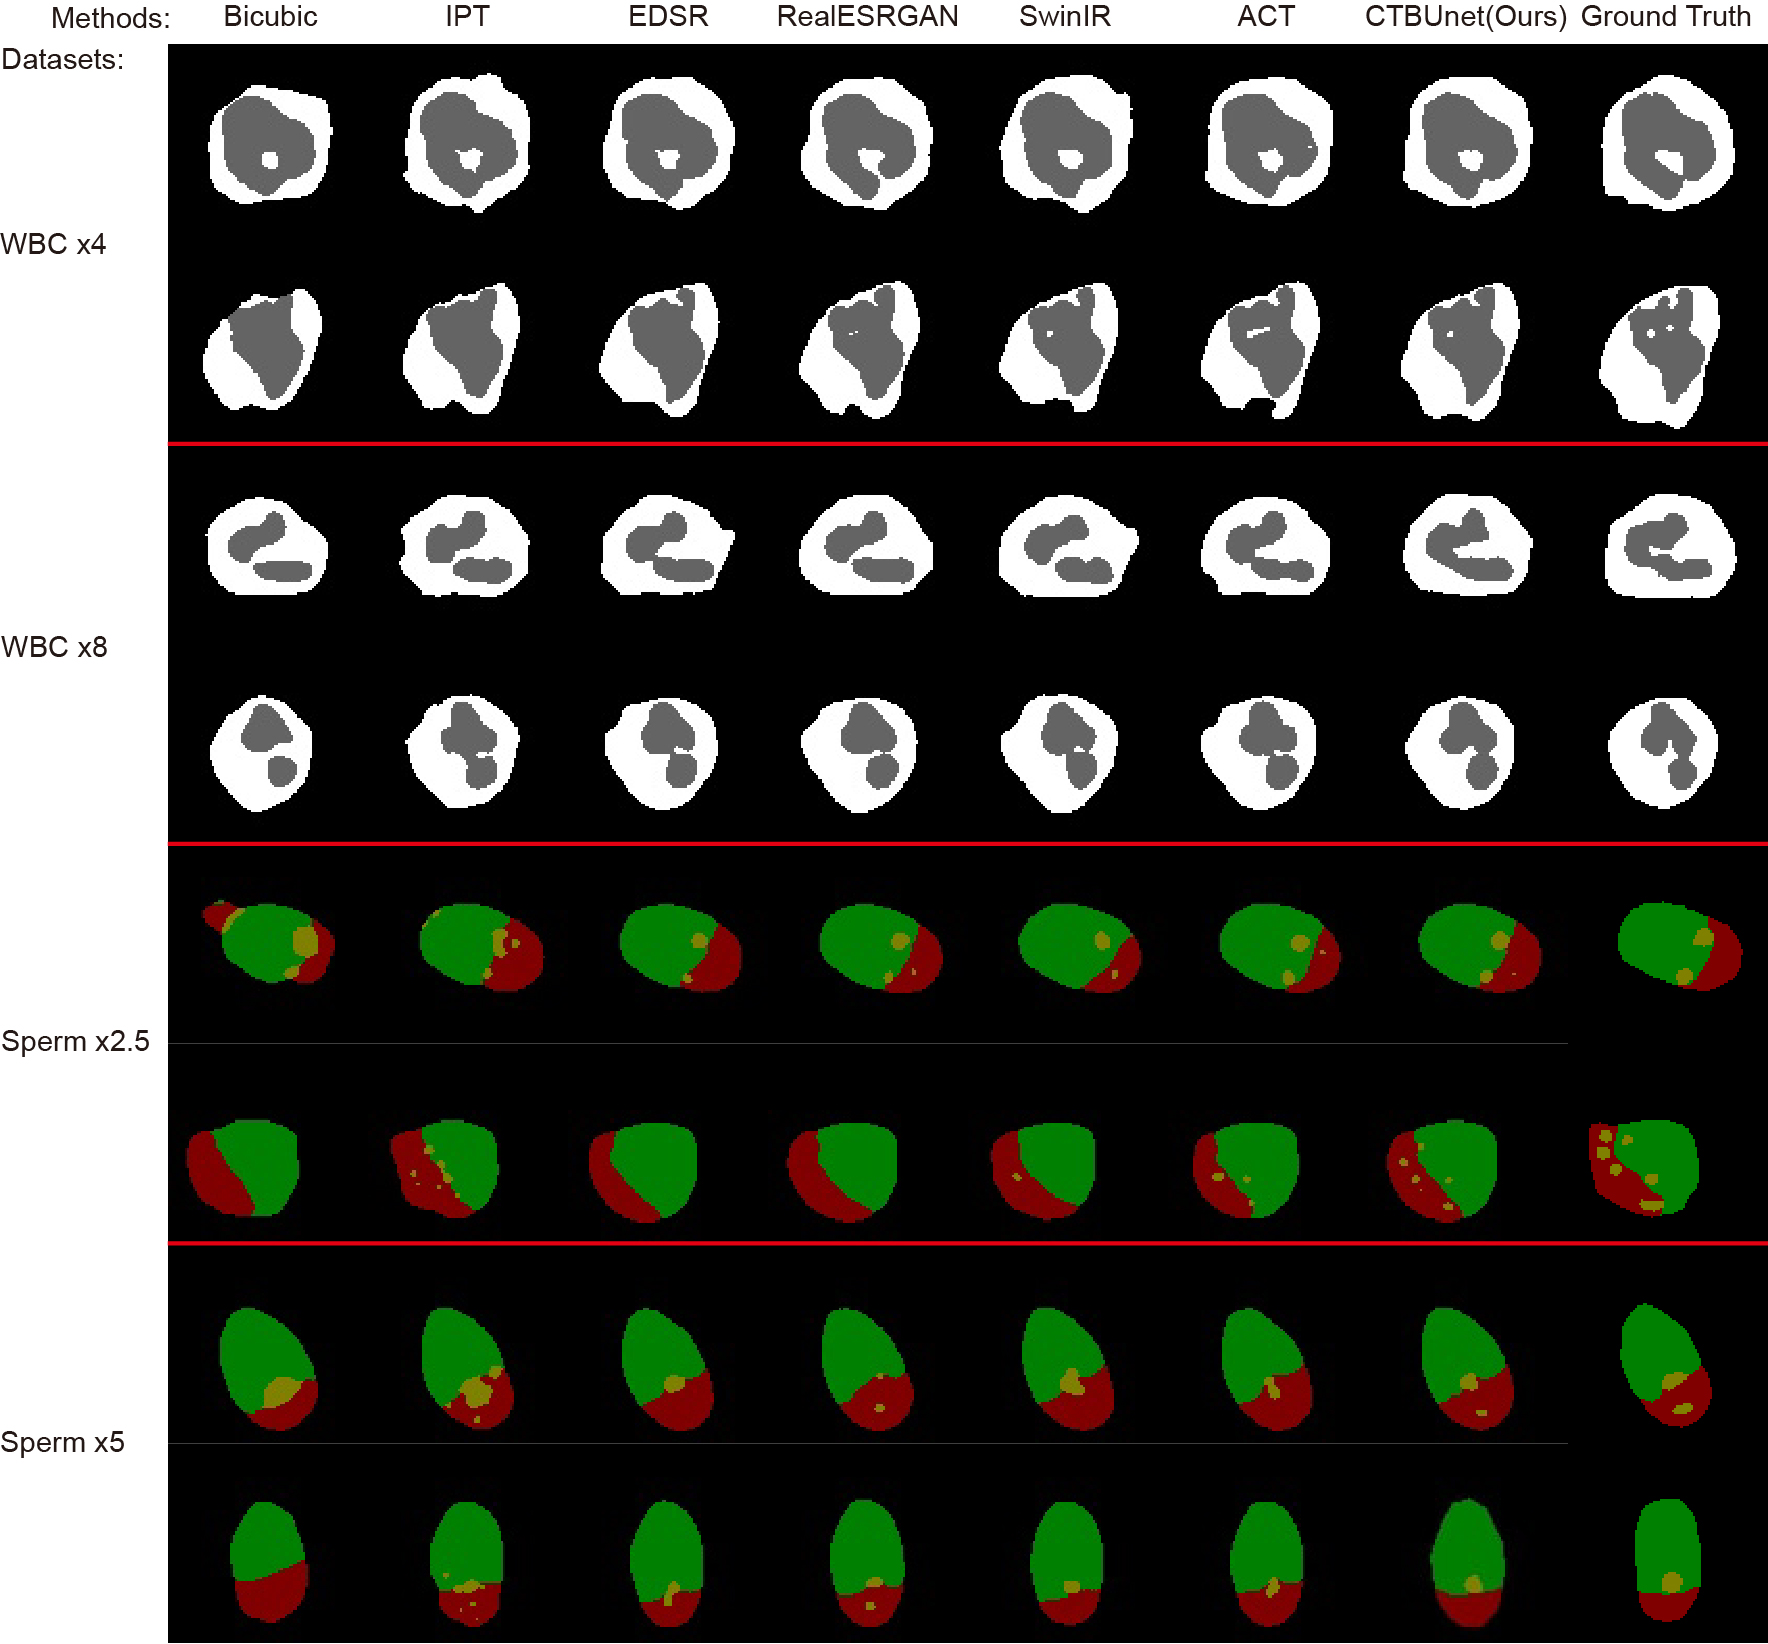
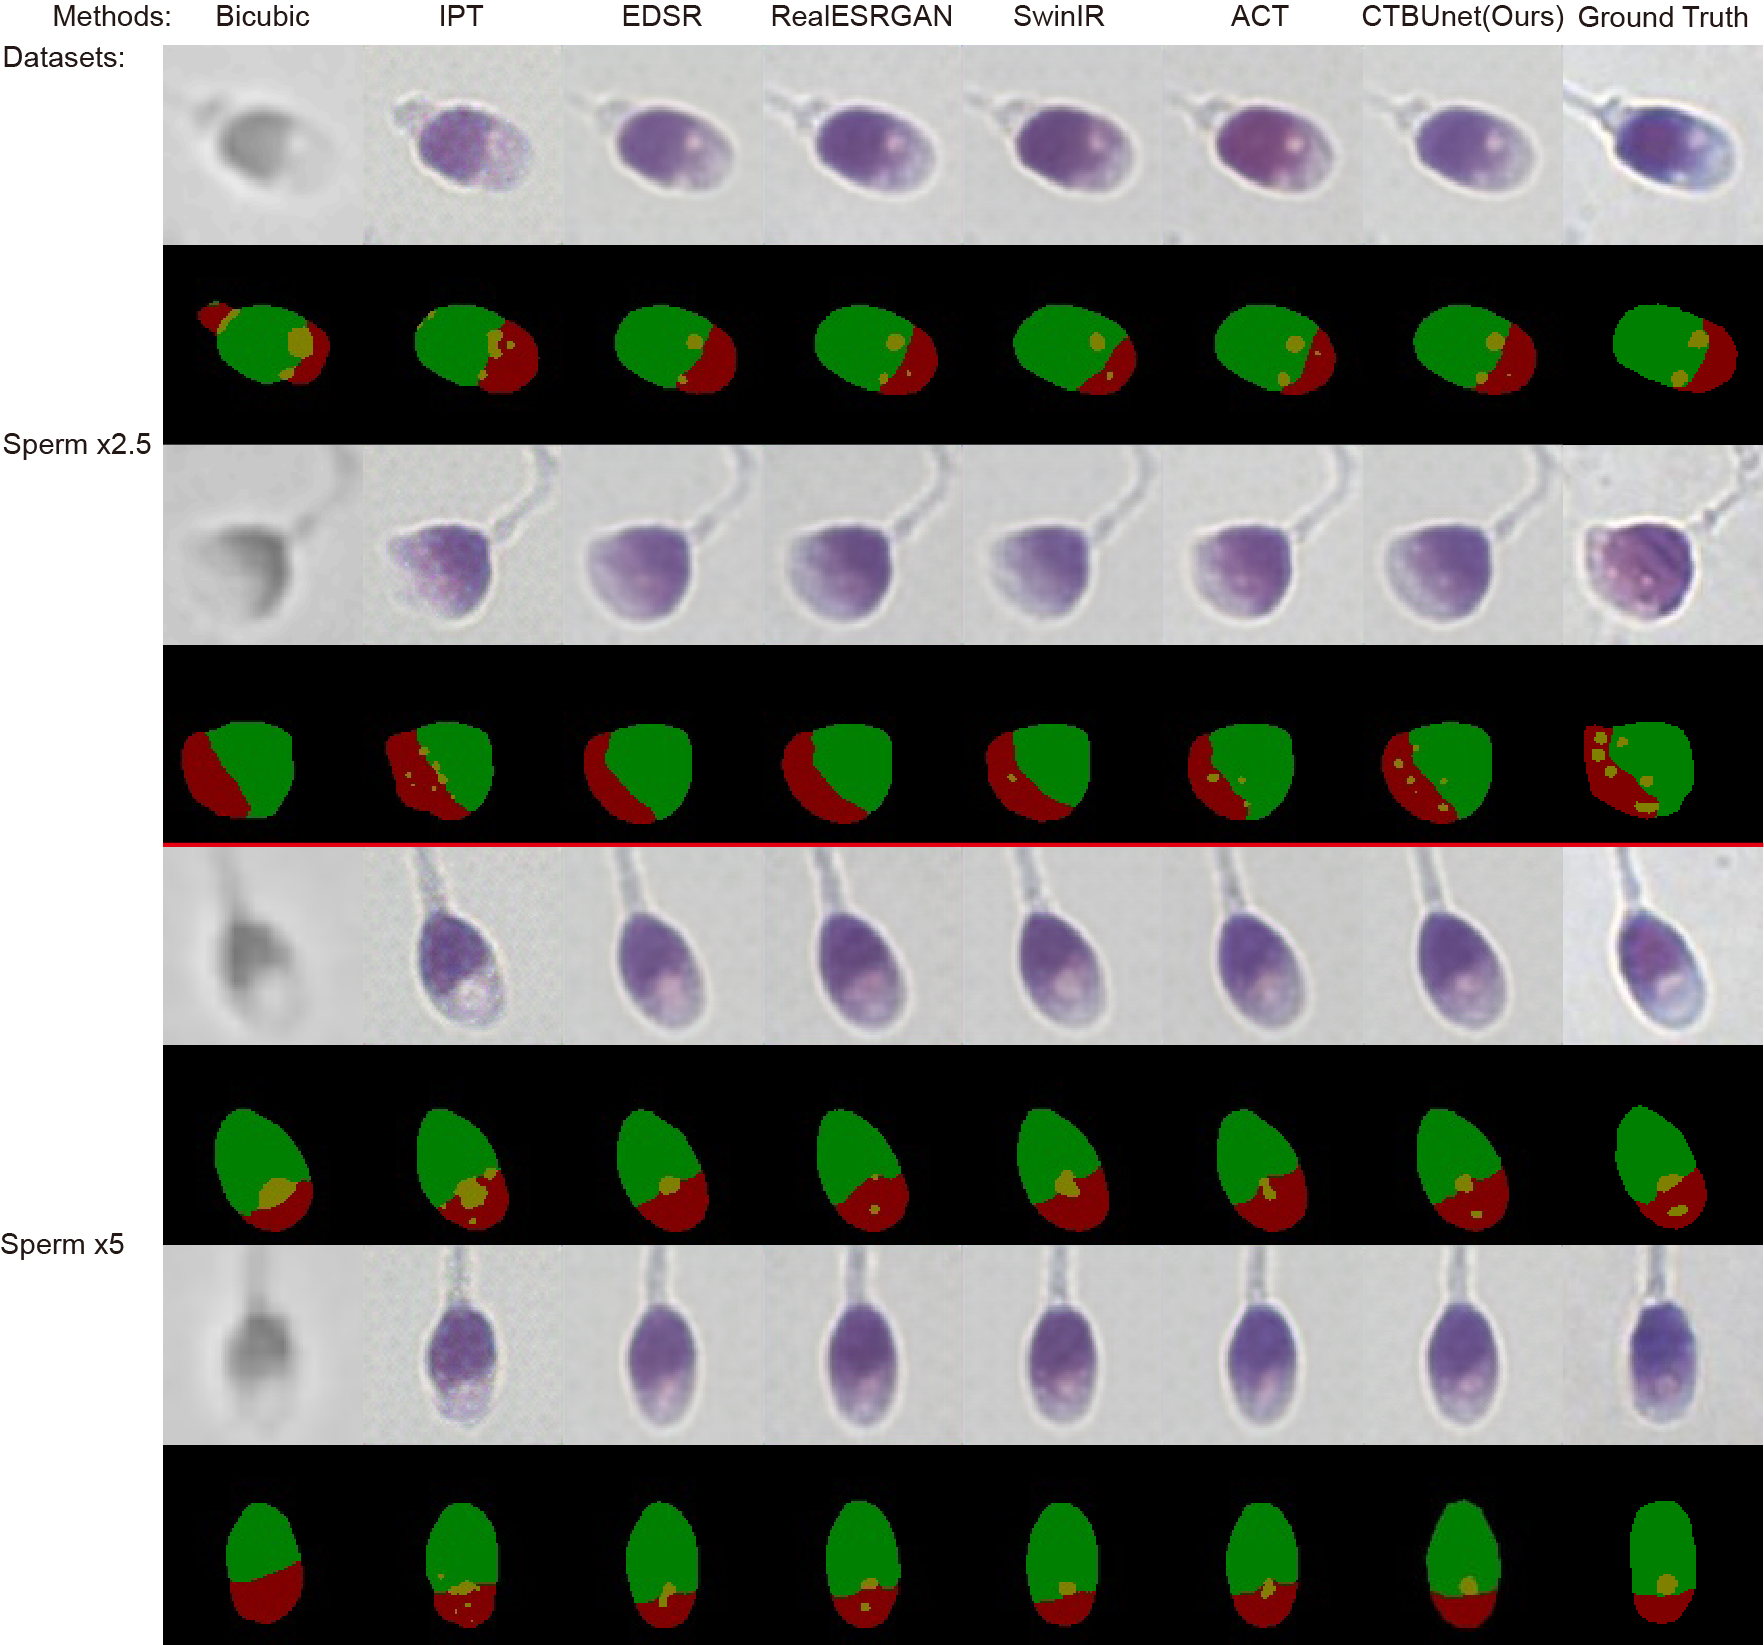
new

diff --git a/README.md b/README.md
@@ -4,7 +4,6 @@
 <p align="center"><img width="90%" src="BasicSR-github/data/CTBUnet.jpg" /></p>
 
 ## Sample output:
-<p align="center"><img width="90%" src="BasicSR-github/data/result2.jpg" /></p>
 <p align="center"><img width="90%" src="BasicSR-github/data/result1.jpg" /></p>
 
 ## Dataset
@@ -15,14 +14,7 @@ The datasets are in Basicsr-github/datasets
 - pytorch.2.1.2
 
 ## Results and models
-**On Synthesized WBC**
-
-|Methods | Scale | PSNR | SSIM | mDice | mIoU |
-|--------|-------|------|------|-------|------|
-|CTBUnet |  x4   |31.20 |0.8979|0.9310 |0.9215|
-|CTBUnet |  x8   |27.36 |0.8239|0.8940 |0.8731|
-
-**On Real-world Sperm**
+**On Sperm Cell Enhancement Dataset**
 
 |Methods | Scale | PSNR | SSIM | mDice | mIoU |
 |--------|-------|------|------|-------|------|
